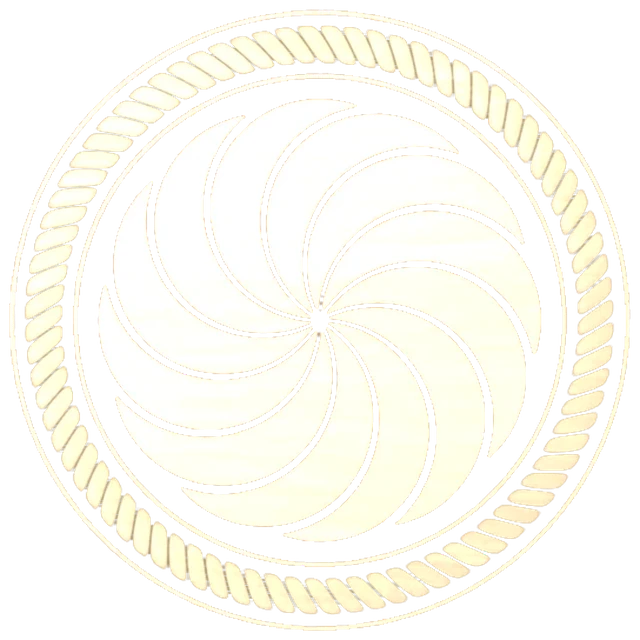
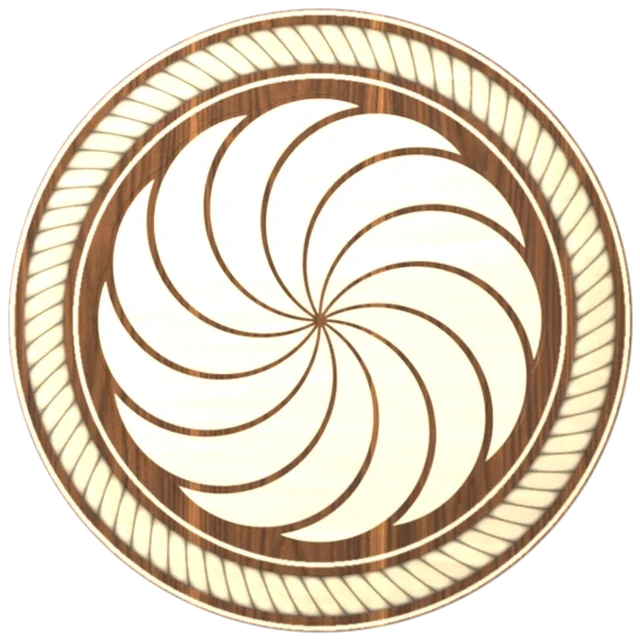
Аревахач в заставке — сплошной диск: просветы между кольцами — тёмное дерево, сквозь знак больше не просвечивают полосы дорисованной крышки
Claude-Session: https://claude.ai/code/session_013vq6NREHT7txoK1nXmxN83

diff --git a/index.html b/index.html
@@ -927,10 +927,10 @@ function probeFps(){
 }
 // GAME_VERSION — для людей, меняется при крупных обновлениях; APP_VERSION — номер сборки для кэша, растёт при каждой выкладке
 const GAME_VERSION='1.0';
-const APP_VERSION='117';   // совпадает с V в sw.js: номер сборки (имя кэша)
+const APP_VERSION='118';   // совпадает с V в sw.js: номер сборки (имя кэша)
 // AV — короткие хеши содержимого картинок (их пишет tools/stamp.py): адрес меняется, только когда меняется сам файл,
 // поэтому после обновления заново качается лишь то, что изменилось
-/*AV*/const AV={"boards/ararat-thumb.webp":"72ff05c2","boards/ararat.webp":"7c44b1ce","boards/ck-beech.png":"ef00f4f8","boards/ck-bronze.png":"db6b57b9","boards/ck-copper.png":"761c282a","boards/ck-gold.png":"87fddeef","boards/ck-ivory.png":"372b72ce","boards/ck-onyx.png":"bfb41b3a","boards/ck-pearl.png":"83aaf841","boards/ck-pomegranate.png":"73a5236d","boards/ck-silver.png":"18222740","boards/ck-walnut.png":"1857427e","boards/ckside-beech.png":"2e4a01b1","boards/ckside-bronze.png":"700fbb0d","boards/ckside-copper.png":"54a53742","boards/ckside-gold.png":"f3c3b036","boards/ckside-ivory.png":"cce1b2d9","boards/ckside-onyx.png":"3695f6bf","boards/ckside-pearl.png":"d9c5e6f3","boards/ckside-pomegranate.png":"79fe0975","boards/ckside-silver.png":"6d16c666","boards/ckside-walnut.png":"bc0fa647","boards/die-1.png":"2d6046dd","boards/die-2.png":"dba1ef51","boards/die-3.png":"c4754c62","boards/die-4.png":"c26495e1","boards/die-5.png":"49661381","boards/die-6.png":"3d46b683","boards/die-amber-1.png":"105d06f3","boards/die-amber-2.png":"f7695264","boards/die-amber-3.png":"518fcc5b","boards/die-amber-4.png":"82e42d65","boards/die-amber-5.png":"a53a1fed","boards/die-amber-6.png":"6114a46b","boards/die-wood-1.png":"f9fecd23","boards/die-wood-2.png":"dad9e71b","boards/die-wood-3.png":"ebe40557","boards/die-wood-4.png":"f8c4f6d2","boards/die-wood-5.png":"239c202c","boards/die-wood-6.png":"ea05a4a3","boards/glass-thumb.webp":"5db12bdb","boards/glass.webp":"3fe1cddb","boards/intro-rev-w.webp":"47e87aa2","boards/intro-rev.webp":"e1529cdc","boards/leafshade.webp":"8666bd89","boards/lid-plain.webp":"32dbab24","boards/lid.webp":"47f4a845","boards/maple.webp":"c7e0d43c","boards/night-thumb.webp":"61a42599","boards/night.webp":"96cd9880","boards/plaque.webp":"6c60c0b6","boards/pomegranate-thumb.webp":"d5574e56","boards/pomegranate.webp":"a89189f5","boards/prop-beads.webp":"01fd0477","boards/prop-cup.webp":"67e8e539","boards/prop-pack.webp":"a1f55e5d","boards/pt-ararat-long.png":"b706af0c","boards/pt-ararat-short.png":"0d9bdbb6","boards/pt-glass-long.png":"2474d3b3","boards/pt-glass-short.png":"2474d3b3","boards/pt-night-long.png":"c9576df0","boards/pt-night-short.png":"c9576df0","boards/pt-pomegranate-long.png":"b706af0c","boards/pt-pomegranate-short.png":"0d9bdbb6","boards/pt-sevan-long.png":"b706af0c","boards/pt-sevan-short.png":"0d9bdbb6","boards/pt-yerevan-long.png":"f28ec383","boards/pt-yerevan-short.png":"78fa0ed8","boards/sevan-thumb.webp":"35db3522","boards/sevan.webp":"56ec51be","boards/table.webp":"d353fc6c","boards/walnut-plank.webp":"3f05219c","boards/yerevan-thumb.webp":"4817779b","boards/yerevan.webp":"64e36c39"};/*/AV*/
+/*AV*/const AV={"boards/ararat-thumb.webp":"72ff05c2","boards/ararat.webp":"7c44b1ce","boards/ck-beech.png":"ef00f4f8","boards/ck-bronze.png":"db6b57b9","boards/ck-copper.png":"761c282a","boards/ck-gold.png":"87fddeef","boards/ck-ivory.png":"372b72ce","boards/ck-onyx.png":"bfb41b3a","boards/ck-pearl.png":"83aaf841","boards/ck-pomegranate.png":"73a5236d","boards/ck-silver.png":"18222740","boards/ck-walnut.png":"1857427e","boards/ckside-beech.png":"2e4a01b1","boards/ckside-bronze.png":"700fbb0d","boards/ckside-copper.png":"54a53742","boards/ckside-gold.png":"f3c3b036","boards/ckside-ivory.png":"cce1b2d9","boards/ckside-onyx.png":"3695f6bf","boards/ckside-pearl.png":"d9c5e6f3","boards/ckside-pomegranate.png":"79fe0975","boards/ckside-silver.png":"6d16c666","boards/ckside-walnut.png":"bc0fa647","boards/die-1.png":"2d6046dd","boards/die-2.png":"dba1ef51","boards/die-3.png":"c4754c62","boards/die-4.png":"c26495e1","boards/die-5.png":"49661381","boards/die-6.png":"3d46b683","boards/die-amber-1.png":"105d06f3","boards/die-amber-2.png":"f7695264","boards/die-amber-3.png":"518fcc5b","boards/die-amber-4.png":"82e42d65","boards/die-amber-5.png":"a53a1fed","boards/die-amber-6.png":"6114a46b","boards/die-wood-1.png":"f9fecd23","boards/die-wood-2.png":"dad9e71b","boards/die-wood-3.png":"ebe40557","boards/die-wood-4.png":"f8c4f6d2","boards/die-wood-5.png":"239c202c","boards/die-wood-6.png":"ea05a4a3","boards/glass-thumb.webp":"5db12bdb","boards/glass.webp":"3fe1cddb","boards/intro-rev-w.webp":"580d8f74","boards/intro-rev.webp":"70954ef2","boards/leafshade.webp":"8666bd89","boards/lid-plain.webp":"32dbab24","boards/lid.webp":"47f4a845","boards/maple.webp":"c7e0d43c","boards/night-thumb.webp":"61a42599","boards/night.webp":"96cd9880","boards/plaque.webp":"6c60c0b6","boards/pomegranate-thumb.webp":"d5574e56","boards/pomegranate.webp":"a89189f5","boards/prop-beads.webp":"01fd0477","boards/prop-cup.webp":"67e8e539","boards/prop-pack.webp":"a1f55e5d","boards/pt-ararat-long.png":"b706af0c","boards/pt-ararat-short.png":"0d9bdbb6","boards/pt-glass-long.png":"2474d3b3","boards/pt-glass-short.png":"2474d3b3","boards/pt-night-long.png":"c9576df0","boards/pt-night-short.png":"c9576df0","boards/pt-pomegranate-long.png":"b706af0c","boards/pt-pomegranate-short.png":"0d9bdbb6","boards/pt-sevan-long.png":"b706af0c","boards/pt-sevan-short.png":"0d9bdbb6","boards/pt-yerevan-long.png":"f28ec383","boards/pt-yerevan-short.png":"78fa0ed8","boards/sevan-thumb.webp":"35db3522","boards/sevan.webp":"56ec51be","boards/table.webp":"d353fc6c","boards/walnut-plank.webp":"3f05219c","boards/yerevan-thumb.webp":"4817779b","boards/yerevan.webp":"64e36c39"};/*/AV*/
 const av=p=>p+'?v='+(AV[p]||APP_VERSION);
 const NS='http://www.w3.org/2000/svg';
 const f2=v=>(+v).toFixed(1);

diff --git a/sw.js b/sw.js
@@ -2,7 +2,7 @@
 const V = '94';                 // = APP_VERSION в index.html
 const VERSION = 'nardy-v' + V;
 // хеши содержимого картинок — те же, что AV в index.html (пишет tools/stamp.py)
-/*AV*/const AV={"boards/ararat-thumb.webp":"72ff05c2","boards/ararat.webp":"7c44b1ce","boards/ck-beech.png":"ef00f4f8","boards/ck-bronze.png":"db6b57b9","boards/ck-copper.png":"761c282a","boards/ck-gold.png":"87fddeef","boards/ck-ivory.png":"372b72ce","boards/ck-onyx.png":"bfb41b3a","boards/ck-pearl.png":"83aaf841","boards/ck-pomegranate.png":"73a5236d","boards/ck-silver.png":"18222740","boards/ck-walnut.png":"1857427e","boards/ckside-beech.png":"2e4a01b1","boards/ckside-bronze.png":"700fbb0d","boards/ckside-copper.png":"54a53742","boards/ckside-gold.png":"f3c3b036","boards/ckside-ivory.png":"cce1b2d9","boards/ckside-onyx.png":"3695f6bf","boards/ckside-pearl.png":"d9c5e6f3","boards/ckside-pomegranate.png":"79fe0975","boards/ckside-silver.png":"6d16c666","boards/ckside-walnut.png":"bc0fa647","boards/die-1.png":"2d6046dd","boards/die-2.png":"dba1ef51","boards/die-3.png":"c4754c62","boards/die-4.png":"c26495e1","boards/die-5.png":"49661381","boards/die-6.png":"3d46b683","boards/die-amber-1.png":"105d06f3","boards/die-amber-2.png":"f7695264","boards/die-amber-3.png":"518fcc5b","boards/die-amber-4.png":"82e42d65","boards/die-amber-5.png":"a53a1fed","boards/die-amber-6.png":"6114a46b","boards/die-wood-1.png":"f9fecd23","boards/die-wood-2.png":"dad9e71b","boards/die-wood-3.png":"ebe40557","boards/die-wood-4.png":"f8c4f6d2","boards/die-wood-5.png":"239c202c","boards/die-wood-6.png":"ea05a4a3","boards/glass-thumb.webp":"5db12bdb","boards/glass.webp":"3fe1cddb","boards/intro-rev-w.webp":"47e87aa2","boards/intro-rev.webp":"e1529cdc","boards/leafshade.webp":"8666bd89","boards/lid-plain.webp":"32dbab24","boards/lid.webp":"47f4a845","boards/maple.webp":"c7e0d43c","boards/night-thumb.webp":"61a42599","boards/night.webp":"96cd9880","boards/plaque.webp":"6c60c0b6","boards/pomegranate-thumb.webp":"d5574e56","boards/pomegranate.webp":"a89189f5","boards/prop-beads.webp":"01fd0477","boards/prop-cup.webp":"67e8e539","boards/prop-pack.webp":"a1f55e5d","boards/pt-ararat-long.png":"b706af0c","boards/pt-ararat-short.png":"0d9bdbb6","boards/pt-glass-long.png":"2474d3b3","boards/pt-glass-short.png":"2474d3b3","boards/pt-night-long.png":"c9576df0","boards/pt-night-short.png":"c9576df0","boards/pt-pomegranate-long.png":"b706af0c","boards/pt-pomegranate-short.png":"0d9bdbb6","boards/pt-sevan-long.png":"b706af0c","boards/pt-sevan-short.png":"0d9bdbb6","boards/pt-yerevan-long.png":"f28ec383","boards/pt-yerevan-short.png":"78fa0ed8","boards/sevan-thumb.webp":"35db3522","boards/sevan.webp":"56ec51be","boards/table.webp":"d353fc6c","boards/walnut-plank.webp":"3f05219c","boards/yerevan-thumb.webp":"4817779b","boards/yerevan.webp":"64e36c39"};/*/AV*/
+/*AV*/const AV={"boards/ararat-thumb.webp":"72ff05c2","boards/ararat.webp":"7c44b1ce","boards/ck-beech.png":"ef00f4f8","boards/ck-bronze.png":"db6b57b9","boards/ck-copper.png":"761c282a","boards/ck-gold.png":"87fddeef","boards/ck-ivory.png":"372b72ce","boards/ck-onyx.png":"bfb41b3a","boards/ck-pearl.png":"83aaf841","boards/ck-pomegranate.png":"73a5236d","boards/ck-silver.png":"18222740","boards/ck-walnut.png":"1857427e","boards/ckside-beech.png":"2e4a01b1","boards/ckside-bronze.png":"700fbb0d","boards/ckside-copper.png":"54a53742","boards/ckside-gold.png":"f3c3b036","boards/ckside-ivory.png":"cce1b2d9","boards/ckside-onyx.png":"3695f6bf","boards/ckside-pearl.png":"d9c5e6f3","boards/ckside-pomegranate.png":"79fe0975","boards/ckside-silver.png":"6d16c666","boards/ckside-walnut.png":"bc0fa647","boards/die-1.png":"2d6046dd","boards/die-2.png":"dba1ef51","boards/die-3.png":"c4754c62","boards/die-4.png":"c26495e1","boards/die-5.png":"49661381","boards/die-6.png":"3d46b683","boards/die-amber-1.png":"105d06f3","boards/die-amber-2.png":"f7695264","boards/die-amber-3.png":"518fcc5b","boards/die-amber-4.png":"82e42d65","boards/die-amber-5.png":"a53a1fed","boards/die-amber-6.png":"6114a46b","boards/die-wood-1.png":"f9fecd23","boards/die-wood-2.png":"dad9e71b","boards/die-wood-3.png":"ebe40557","boards/die-wood-4.png":"f8c4f6d2","boards/die-wood-5.png":"239c202c","boards/die-wood-6.png":"ea05a4a3","boards/glass-thumb.webp":"5db12bdb","boards/glass.webp":"3fe1cddb","boards/intro-rev-w.webp":"580d8f74","boards/intro-rev.webp":"70954ef2","boards/leafshade.webp":"8666bd89","boards/lid-plain.webp":"32dbab24","boards/lid.webp":"47f4a845","boards/maple.webp":"c7e0d43c","boards/night-thumb.webp":"61a42599","boards/night.webp":"96cd9880","boards/plaque.webp":"6c60c0b6","boards/pomegranate-thumb.webp":"d5574e56","boards/pomegranate.webp":"a89189f5","boards/prop-beads.webp":"01fd0477","boards/prop-cup.webp":"67e8e539","boards/prop-pack.webp":"a1f55e5d","boards/pt-ararat-long.png":"b706af0c","boards/pt-ararat-short.png":"0d9bdbb6","boards/pt-glass-long.png":"2474d3b3","boards/pt-glass-short.png":"2474d3b3","boards/pt-night-long.png":"c9576df0","boards/pt-night-short.png":"c9576df0","boards/pt-pomegranate-long.png":"b706af0c","boards/pt-pomegranate-short.png":"0d9bdbb6","boards/pt-sevan-long.png":"b706af0c","boards/pt-sevan-short.png":"0d9bdbb6","boards/pt-yerevan-long.png":"f28ec383","boards/pt-yerevan-short.png":"78fa0ed8","boards/sevan-thumb.webp":"35db3522","boards/sevan.webp":"56ec51be","boards/table.webp":"d353fc6c","boards/walnut-plank.webp":"3f05219c","boards/yerevan-thumb.webp":"4817779b","boards/yerevan.webp":"64e36c39"};/*/AV*/
 const av = p => AV[p] ? p + '?v=' + AV[p] : p;
 const SHELL = [
   './',

diff --git a/tools/intro_assets.py b/tools/intro_assets.py
@@ -38,7 +38,10 @@ m = np.clip((lum - 175) / 35, 0, 1)
 m = median_filter(m, size=(1, 5))                       # поперёк волокон (они вертикальные) — тонкие линии пропадают
 m = np.minimum(m, median_filter(m, size=(3, 3)))
 rr = np.hypot(*np.mgrid[-S:S, -S:S]); m *= np.clip((S - rr) / 3, 0, 1)
-w = crop.copy(); w[..., 3] = m * 255
+# знак — сплошной диск до внешнего кольца: в просветах между кольцами — тёмное дерево самой крышки,
+# сквозь знак ничего не просвечивает (под ним — крышка с дорисованным деревом, оно полосатое)
+disc = np.clip((266 - rr) / 2.5, 0, 1)
+w = crop.copy(); w[..., 3] = np.maximum(m, disc) * 255
 Image.fromarray(w.astype(np.uint8)).resize((640, 640), Image.LANCZOS).save('boards/intro-rev-w.webp', quality=90, method=6)
 # золотой: тёплый градиент (светлее к центру) с мягкой светотенью от рельефа инкрустации
 yy2, xx2 = np.mgrid[-S:S, -S:S] / S
@@ -46,6 +49,8 @@ g = np.clip(1 - np.hypot(xx2 + .25, yy2 + .3) * .55, 0, 1)[..., None]
 c0 = np.array([196, 134, 38.]); c1 = np.array([255, 224, 130.])
 col = c0 + (c1 - c0) * g
 shade = gf(lum, 2) / 255; shade = (shade - shade[m > .5].mean()) * .55 + 1
-gold = np.zeros((2 * S, 2 * S, 4)); gold[..., :3] = np.clip(col * shade[..., None], 0, 255); gold[..., 3] = m * 255
+gold = np.zeros((2 * S, 2 * S, 4)); gc = np.clip(col * shade[..., None], 0, 255)
+dark = np.array([28., 17., 9.])                      # просветы золотого знака — почти чёрное дерево
+gold[..., :3] = gc * m[..., None] + dark * (1 - m[..., None]); gold[..., 3] = np.maximum(m, disc) * 255
 Image.fromarray(gold.astype(np.uint8)).resize((640, 640), Image.LANCZOS).save('boards/intro-rev.webp', quality=90, method=6)
 print('ok')
